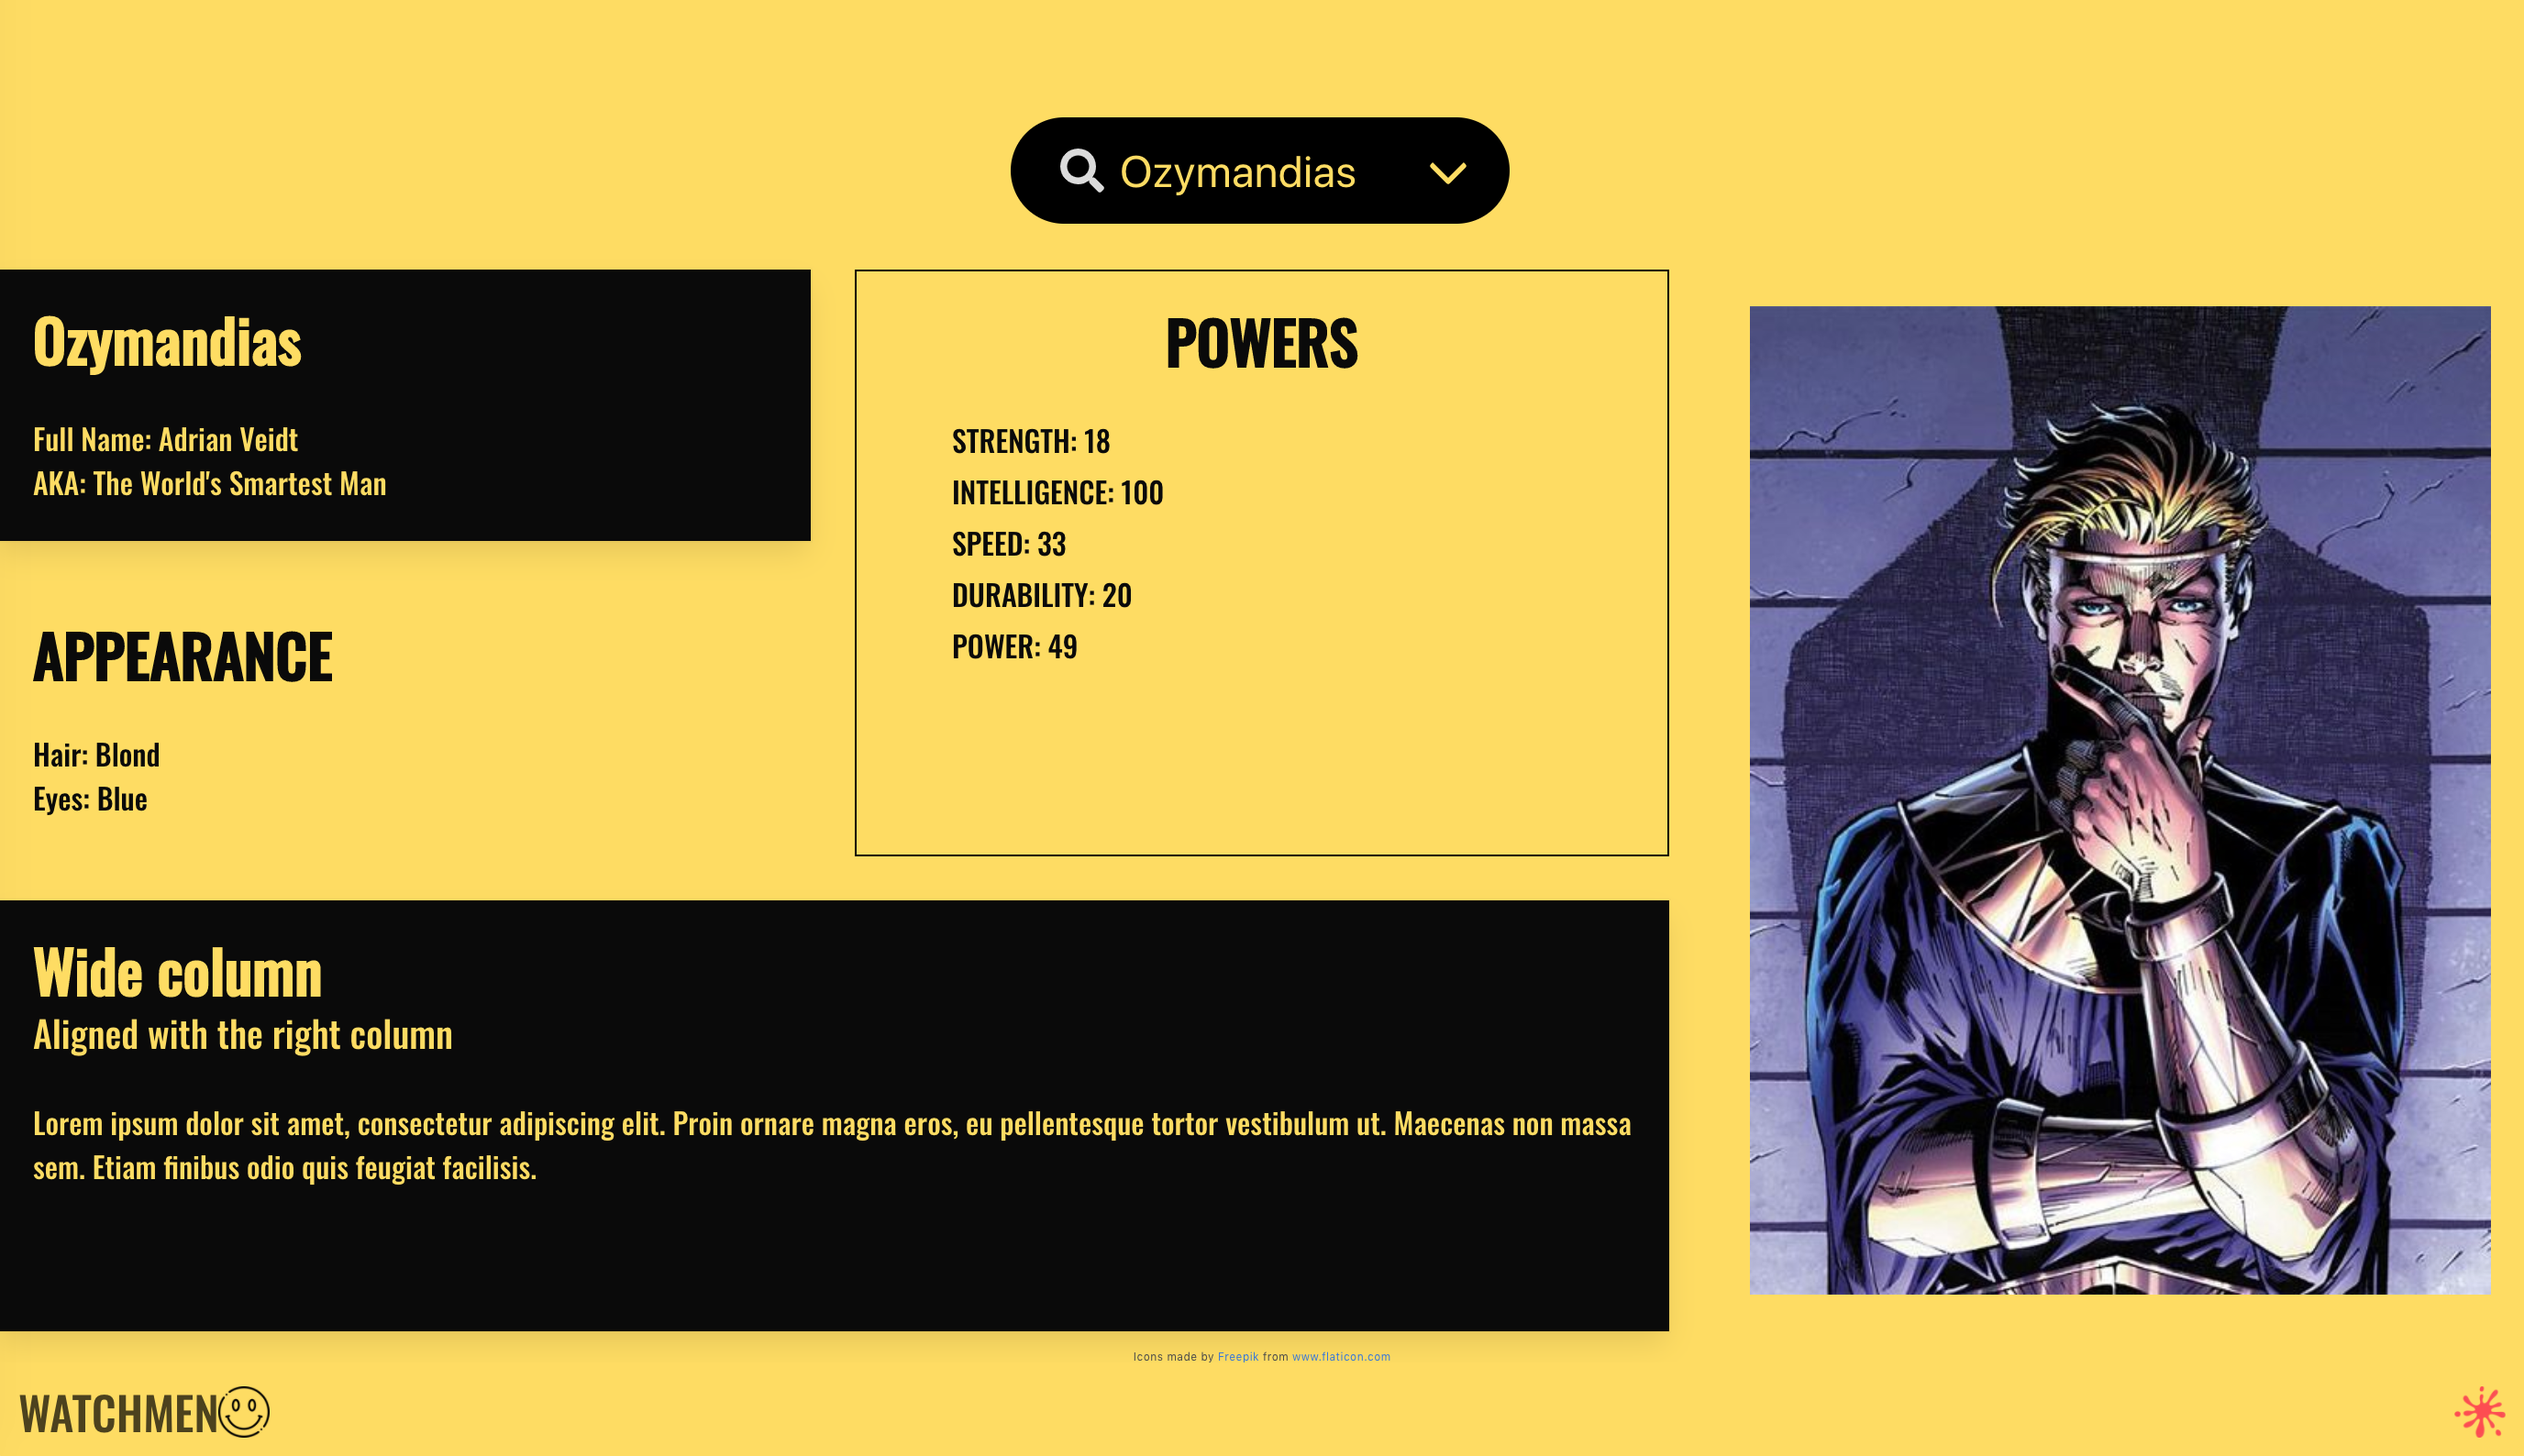
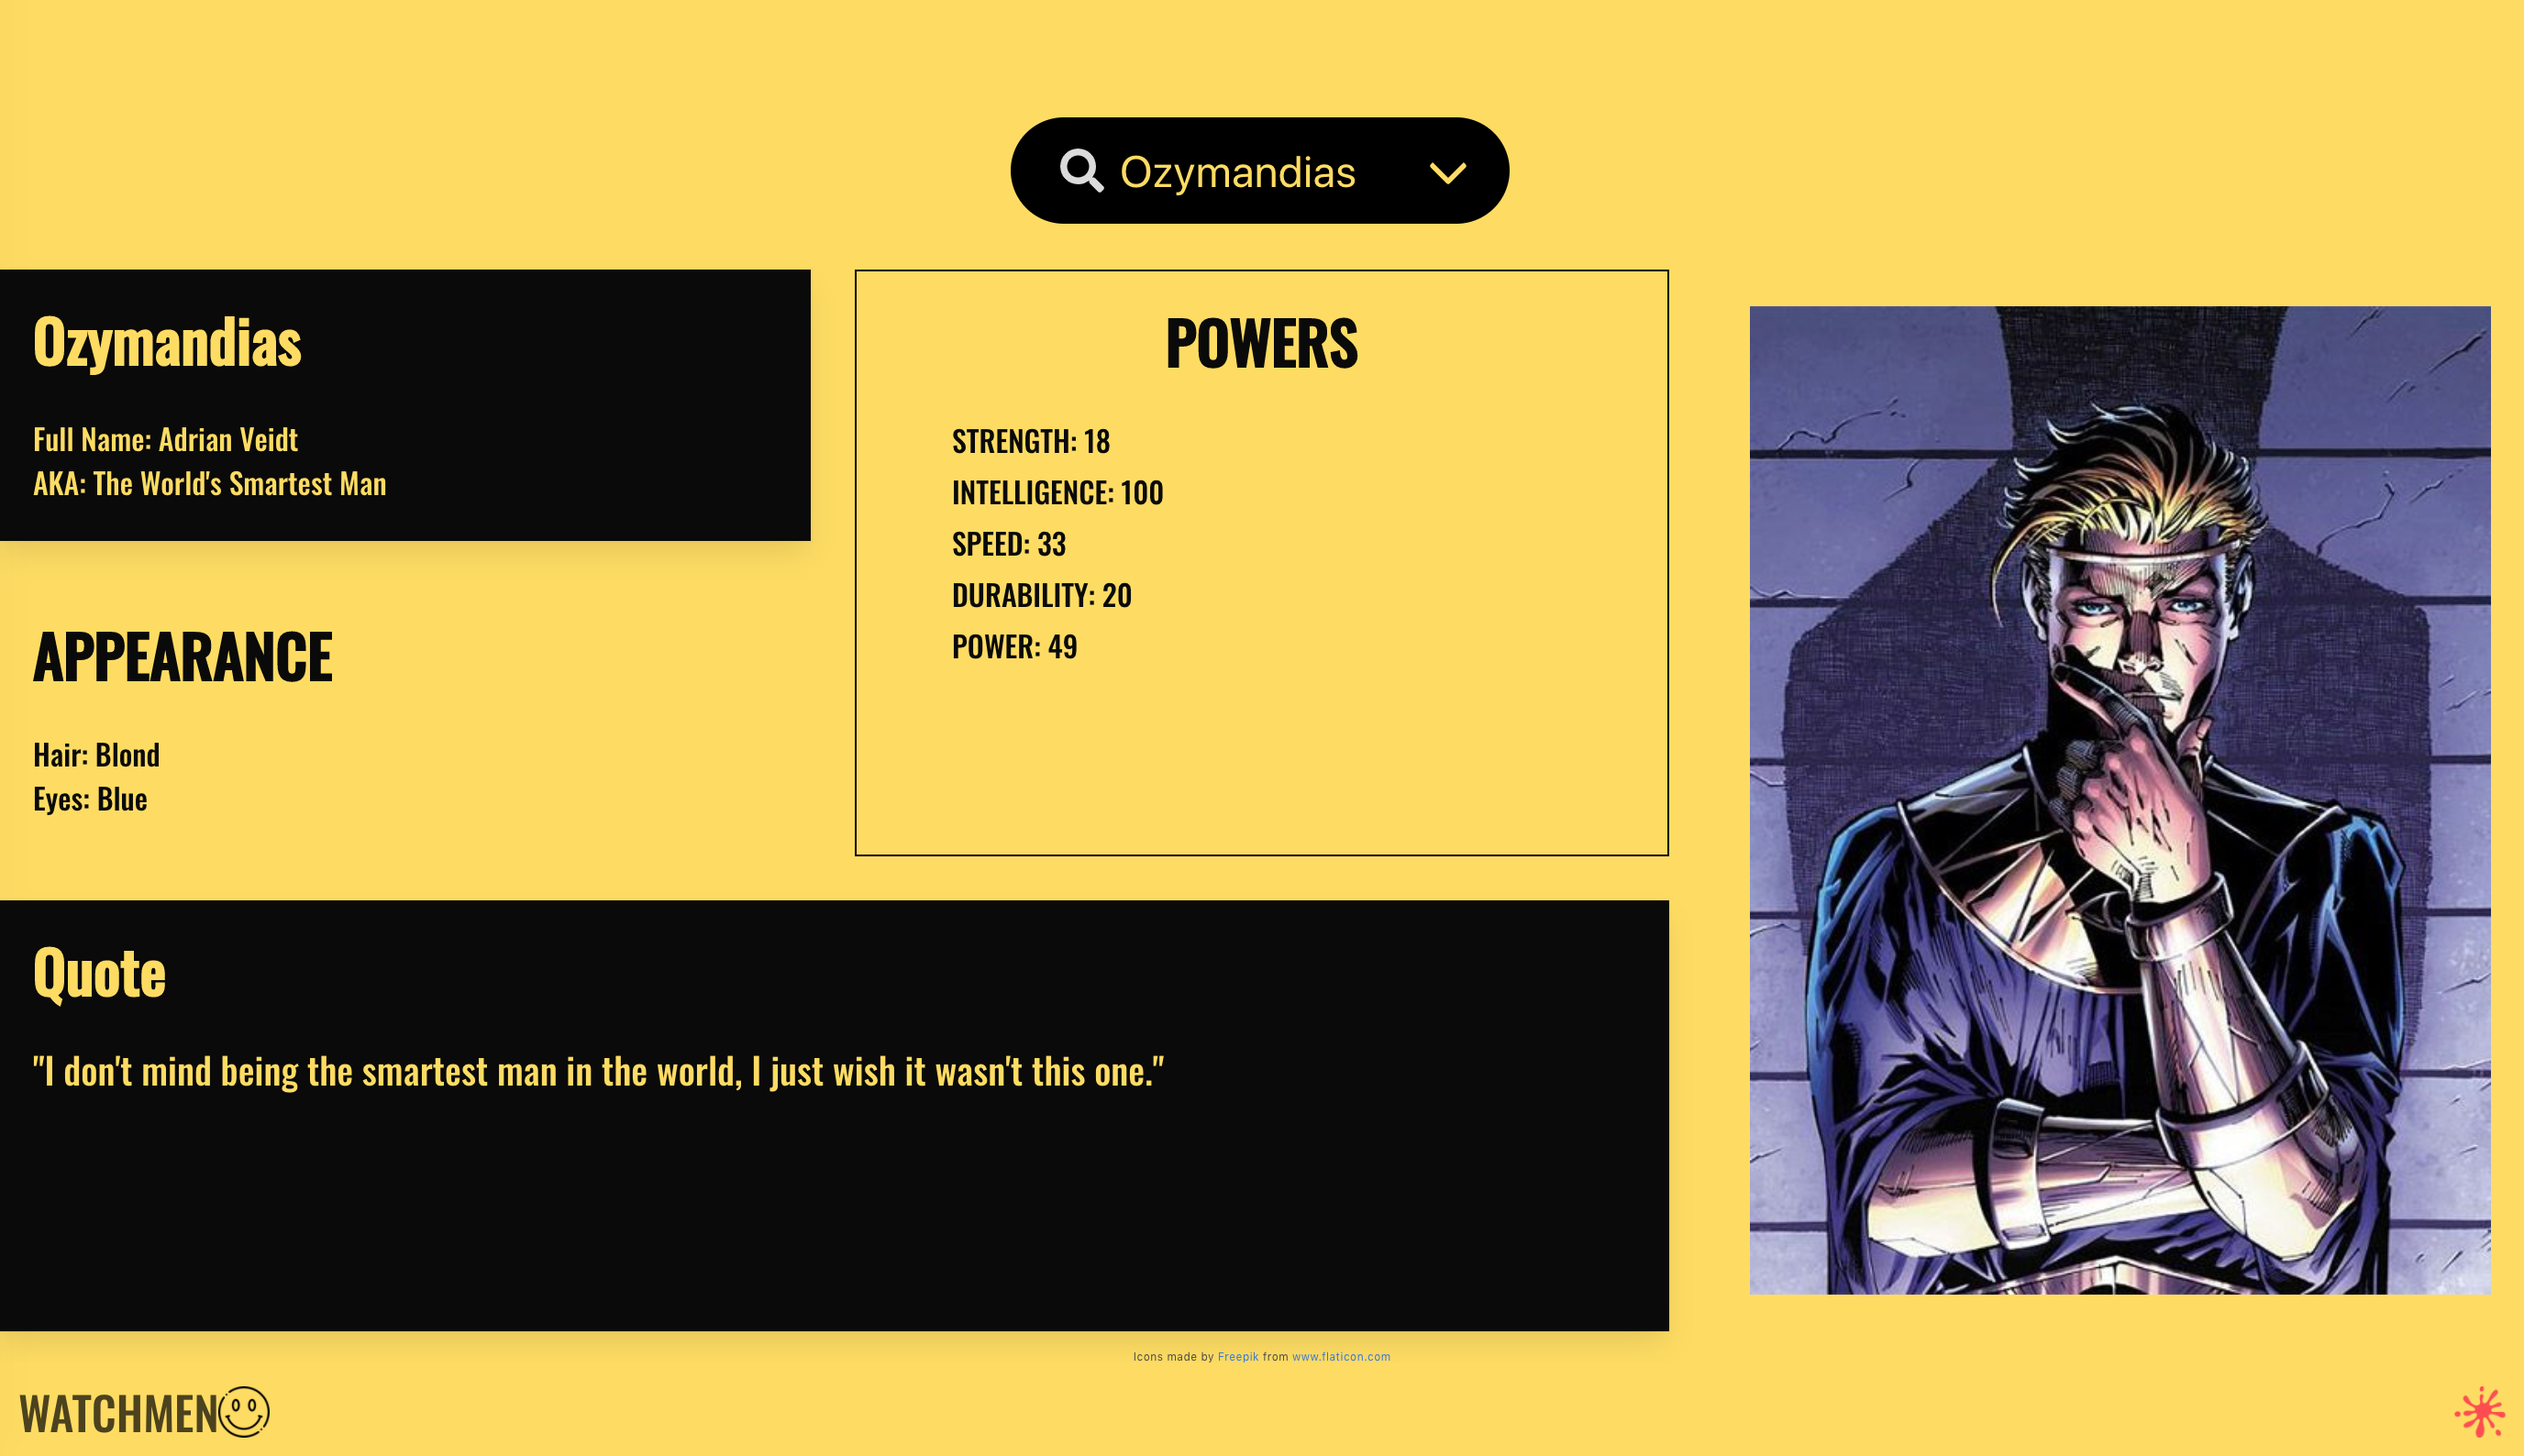
quote function added

Changed region(s): [[0.0, 0.648, 0.6562, 0.8331]]

diff --git a/public/assets/js/finder.js b/public/assets/js/finder.js
@@ -32,6 +32,37 @@ function getCharacterInfo(character) {
     let durability = response.results[0].powerstats.durability;
     let power = response.results[0].powerstats.power;
 
+    let quote;
+
+    console.log(character);
+
+
+
+    switch (character) {
+      case "Ozymandias":
+        quote = `"I don't mind being the smartest man in the world, I just wish it wasn't this one."`;
+        break;
+        case "Nite Owl":
+        quote = `"Y'know, this must be how ordinary people feel. This must be how ordinary people feel around us."`;
+        break;
+      case "Rorschach":
+        quote = `"I live my life free of compromise, and step into the shadows without complaint or regret."`;
+        break;
+      case "Dr Manhattan":
+        quote = `"We're all puppets, Laurie. I'm just a puppet who can see the strings."`;
+        break;
+      case "Moloch":
+        quote = `"For everything I did, everything I stole, everyone I killed, nothing changed. I was still me."`;
+        break;
+        case "The Comedian":
+        quote = `"Once you realize what a joke everything is, being the Comedian is the only thing that makes sense."`;
+        break;
+      case "Silk Spectre":
+        quote = `"I used to be a masked avenger too, remember … I mean, I'm used to going out at three in the morning and doing something stupid."`;
+        break;
+      default:
+    }
+
     const charInfo = `<div class="character-section tile is-ancestor">
         <div class="tile is-vertical is-8">
           <div class="tile">
@@ -64,12 +95,9 @@ function getCharacterInfo(character) {
           </div>
           <div class="tile is-parent">
             <article class="tile is-child has-background-black is-radiusless box">
-              <p class="title has-text-warning">Wide column</p>
-              <p class="subtitle has-text-warning">Aligned with the right column</p>
+              <p class="title has-text-warning">Quote</p>
               <div class="content">
-                <p class="has-text-warning">Lorem ipsum dolor sit amet, consectetur adipiscing elit. Proin ornare magna eros,
-                  eu pellentesque tortor
-                  vestibulum ut. Maecenas non massa sem. Etiam finibus odio quis feugiat facilisis.</p>
+                <p class="subtitle has-text-warning">${quote}</p>
               </div>
             </article>
           </div>
